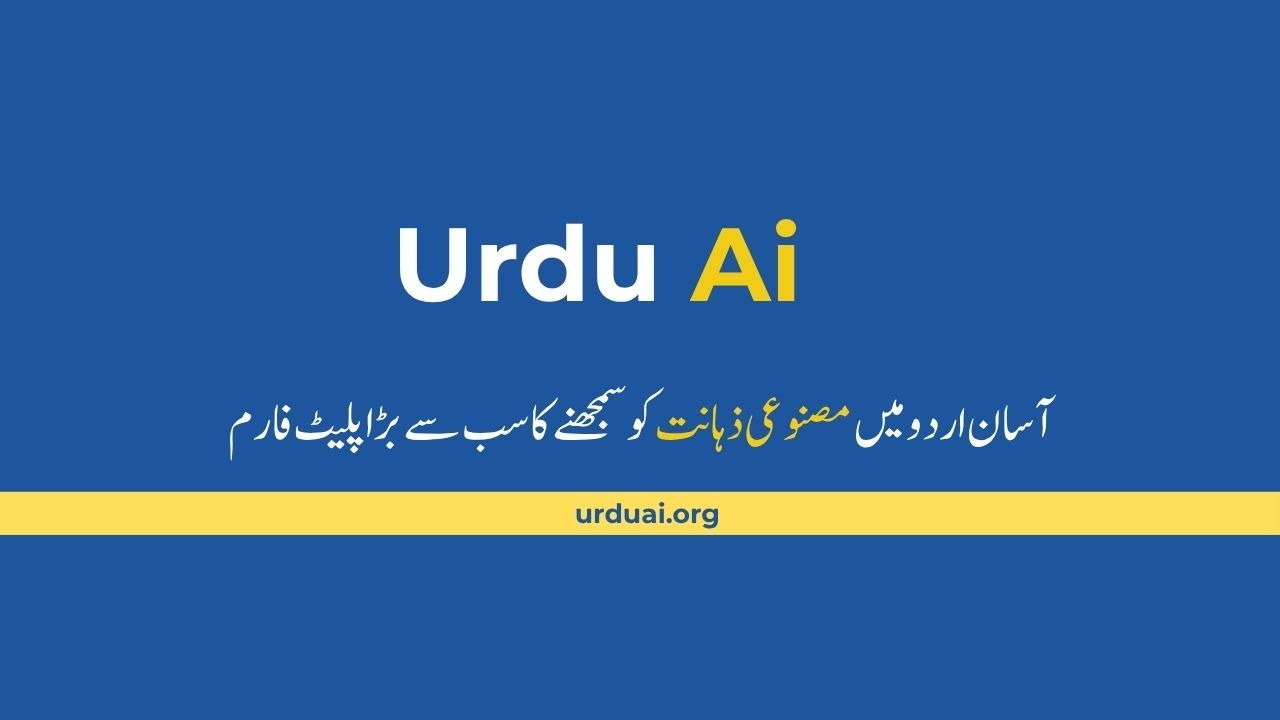
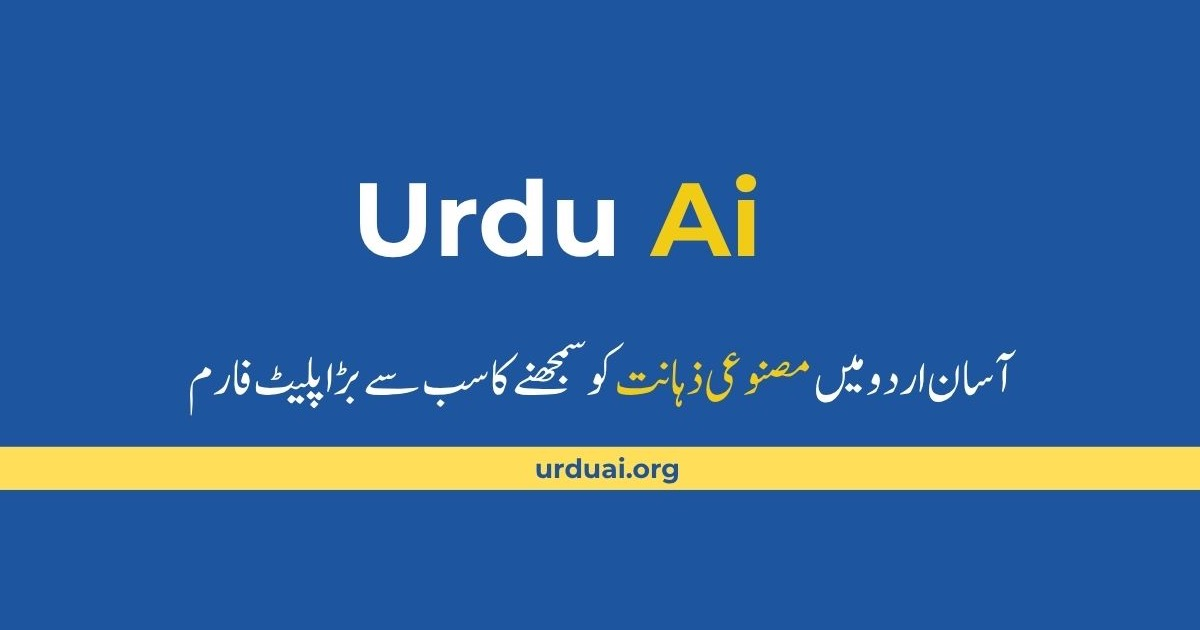
Update homepage OG image and mobile share bar

Changed region(s): [[0.0, 0.5429, 1.0, 0.7841], [0.2775, 0.2714, 0.6475, 0.4222]]

diff --git a/src/styles/global.css b/src/styles/global.css
@@ -1782,6 +1782,68 @@ img {
   }
 }
 
+.mobile-share {
+  display: none;
+}
+
+@media (max-width: 1200px) {
+  .mobile-share {
+    position: fixed;
+    inset-inline: 12px;
+    inset-block-end: 12px;
+    z-index: 95;
+    display: grid;
+    grid-template-columns: repeat(3, minmax(0, 1fr));
+    gap: 8px;
+    padding: 8px;
+    border: 1px solid rgba(196, 184, 154, 0.9);
+    border-radius: 16px;
+    background: rgba(253, 250, 244, 0.96);
+    box-shadow: 0 10px 28px rgba(26, 18, 7, 0.14);
+    backdrop-filter: blur(10px);
+  }
+
+  .mobile-share__btn {
+    min-height: 46px;
+    border: 0;
+    border-radius: 12px;
+    display: inline-flex;
+    align-items: center;
+    justify-content: center;
+    gap: 6px;
+    padding: 0.7rem 0.8rem;
+    font: inherit;
+    font-size: 0.9rem;
+    text-decoration: none;
+    cursor: pointer;
+  }
+
+  .mobile-share__btn--native {
+    background: var(--paper-card);
+    color: var(--ink);
+    border: 1px solid var(--border);
+  }
+
+  .mobile-share__btn--whatsapp {
+    background: #25D366;
+    color: white;
+  }
+
+  .mobile-share__btn--copy {
+    background: var(--ink);
+    color: var(--paper);
+  }
+
+  .mobile-share__btn--copy.copied {
+    background: var(--gold);
+    color: white;
+  }
+
+  .article-layout__main {
+    padding-block-end: 96px;
+  }
+}
+
 /* ============================================================
    Table of Contents Widget
    ============================================================ */
